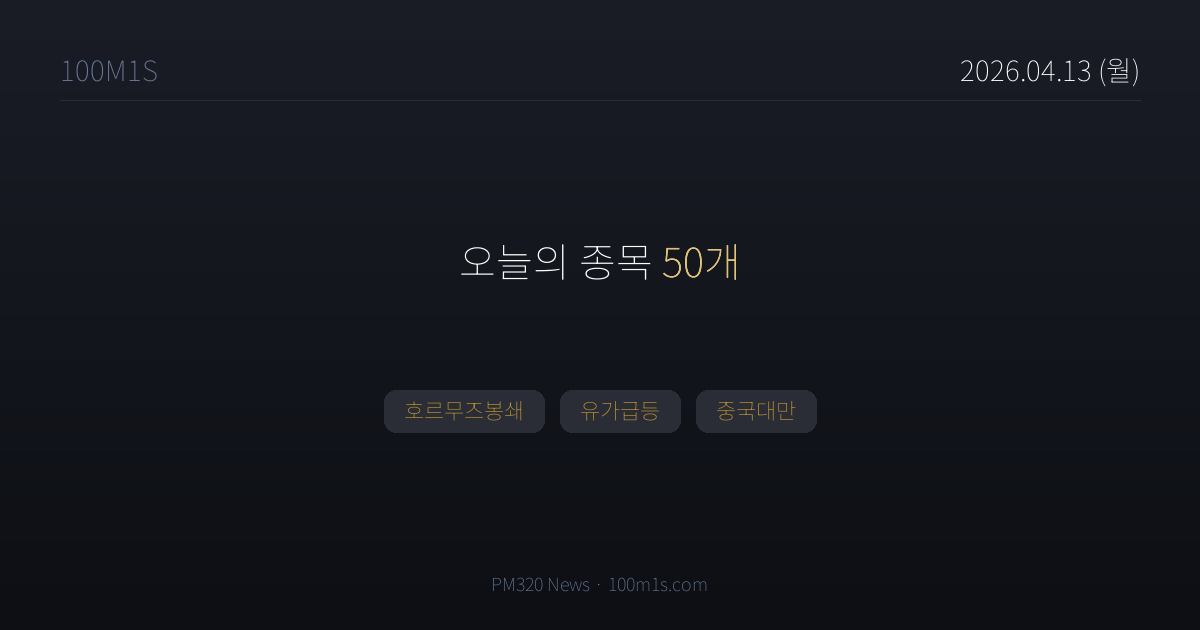
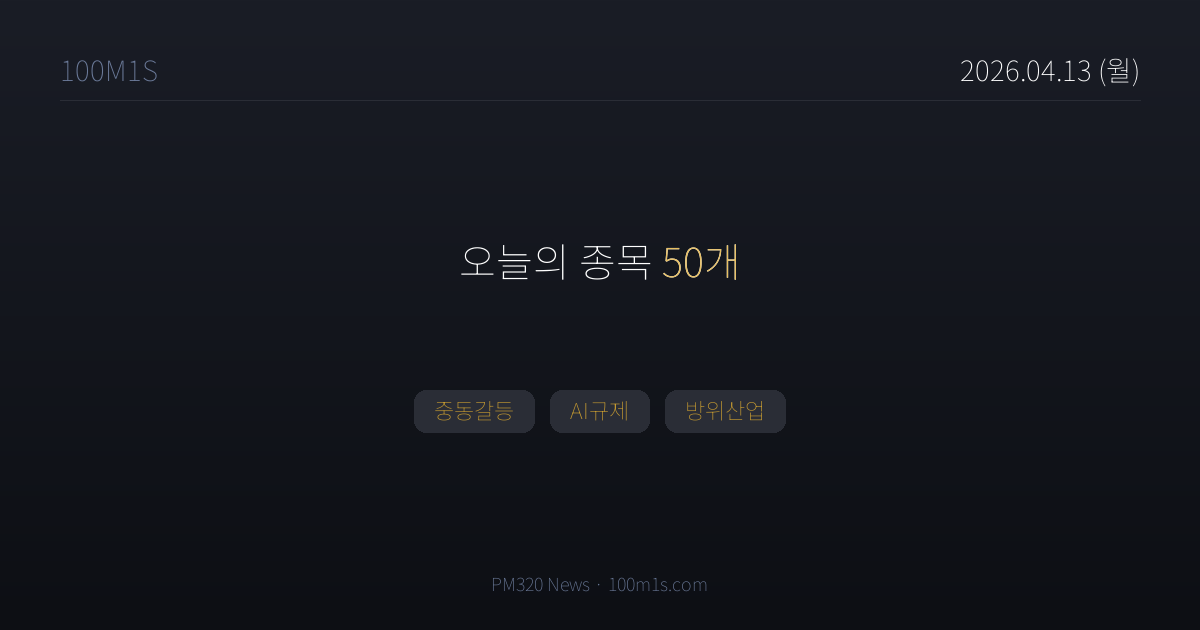
chore(news): 2026-04-13T03:53 pipeline

Changed region(s): [[0.3083, 0.6032, 0.6783, 0.6937]]

diff --git a/news/2026-04-13.html b/news/2026-04-13.html
@@ -4,7 +4,7 @@
 <meta charset="UTF-8">
 <title>4월 13일 (월) 뉴스 — 100M1S</title>
 <meta property="og:title" content="4월 13일 (월) · 종목 50개">
-<meta property="og:description" content="호르무즈봉쇄, 유가급등, 중국대만">
+<meta property="og:description" content="중동갈등, AI규제, 방위산업">
 <meta property="og:image" content="https://100m1s.com/og/2026-04-13.png">
 <meta property="og:image:width" content="1200">
 <meta property="og:image:height" content="630">
